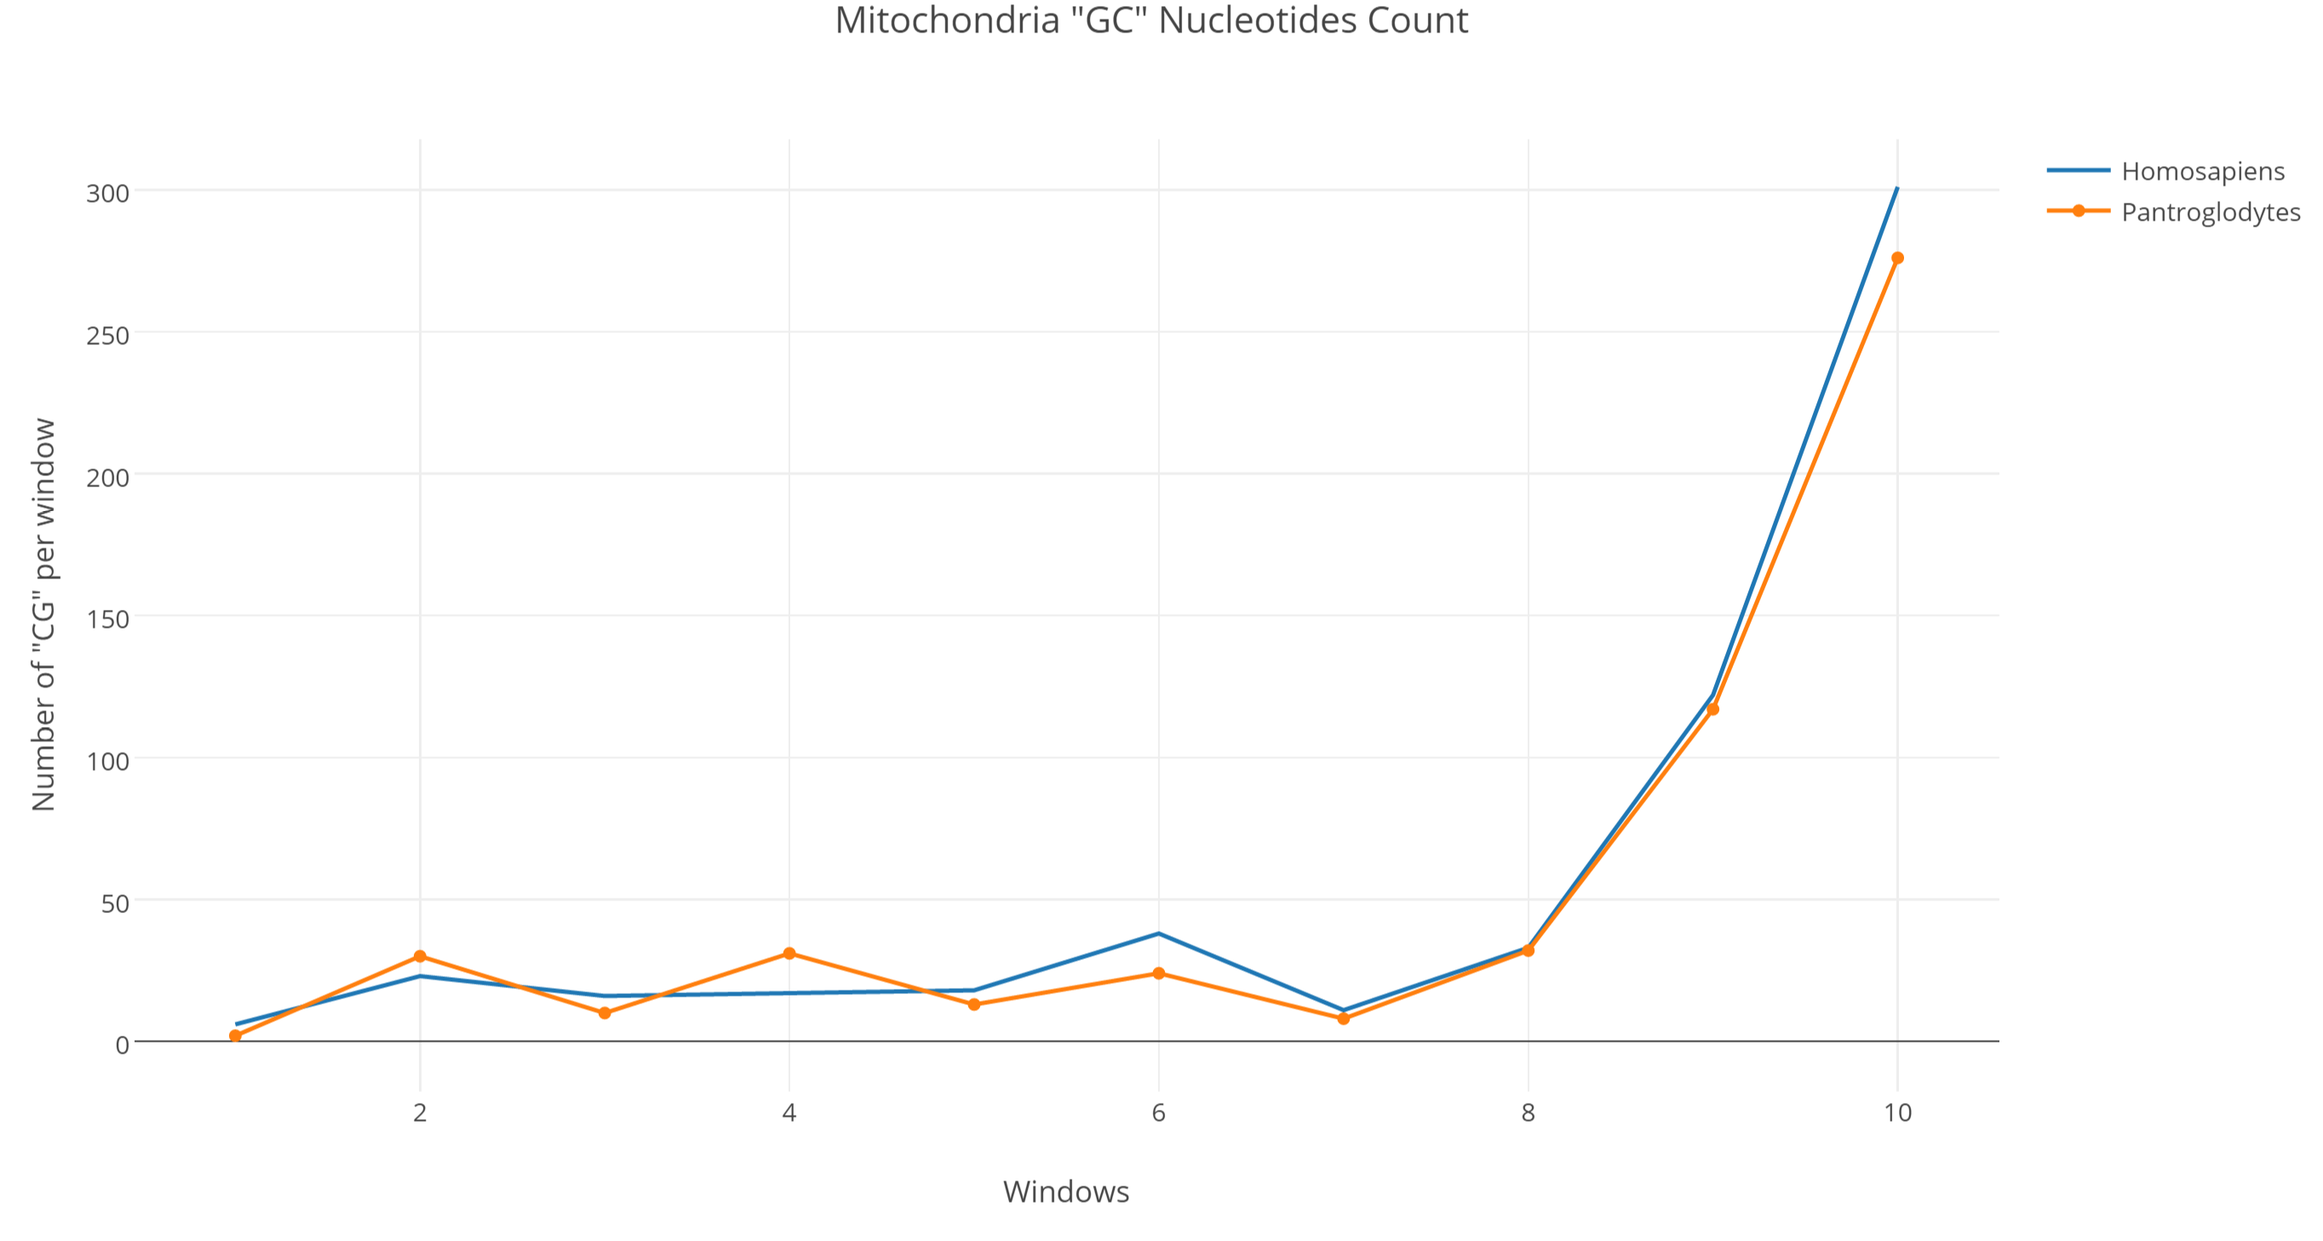
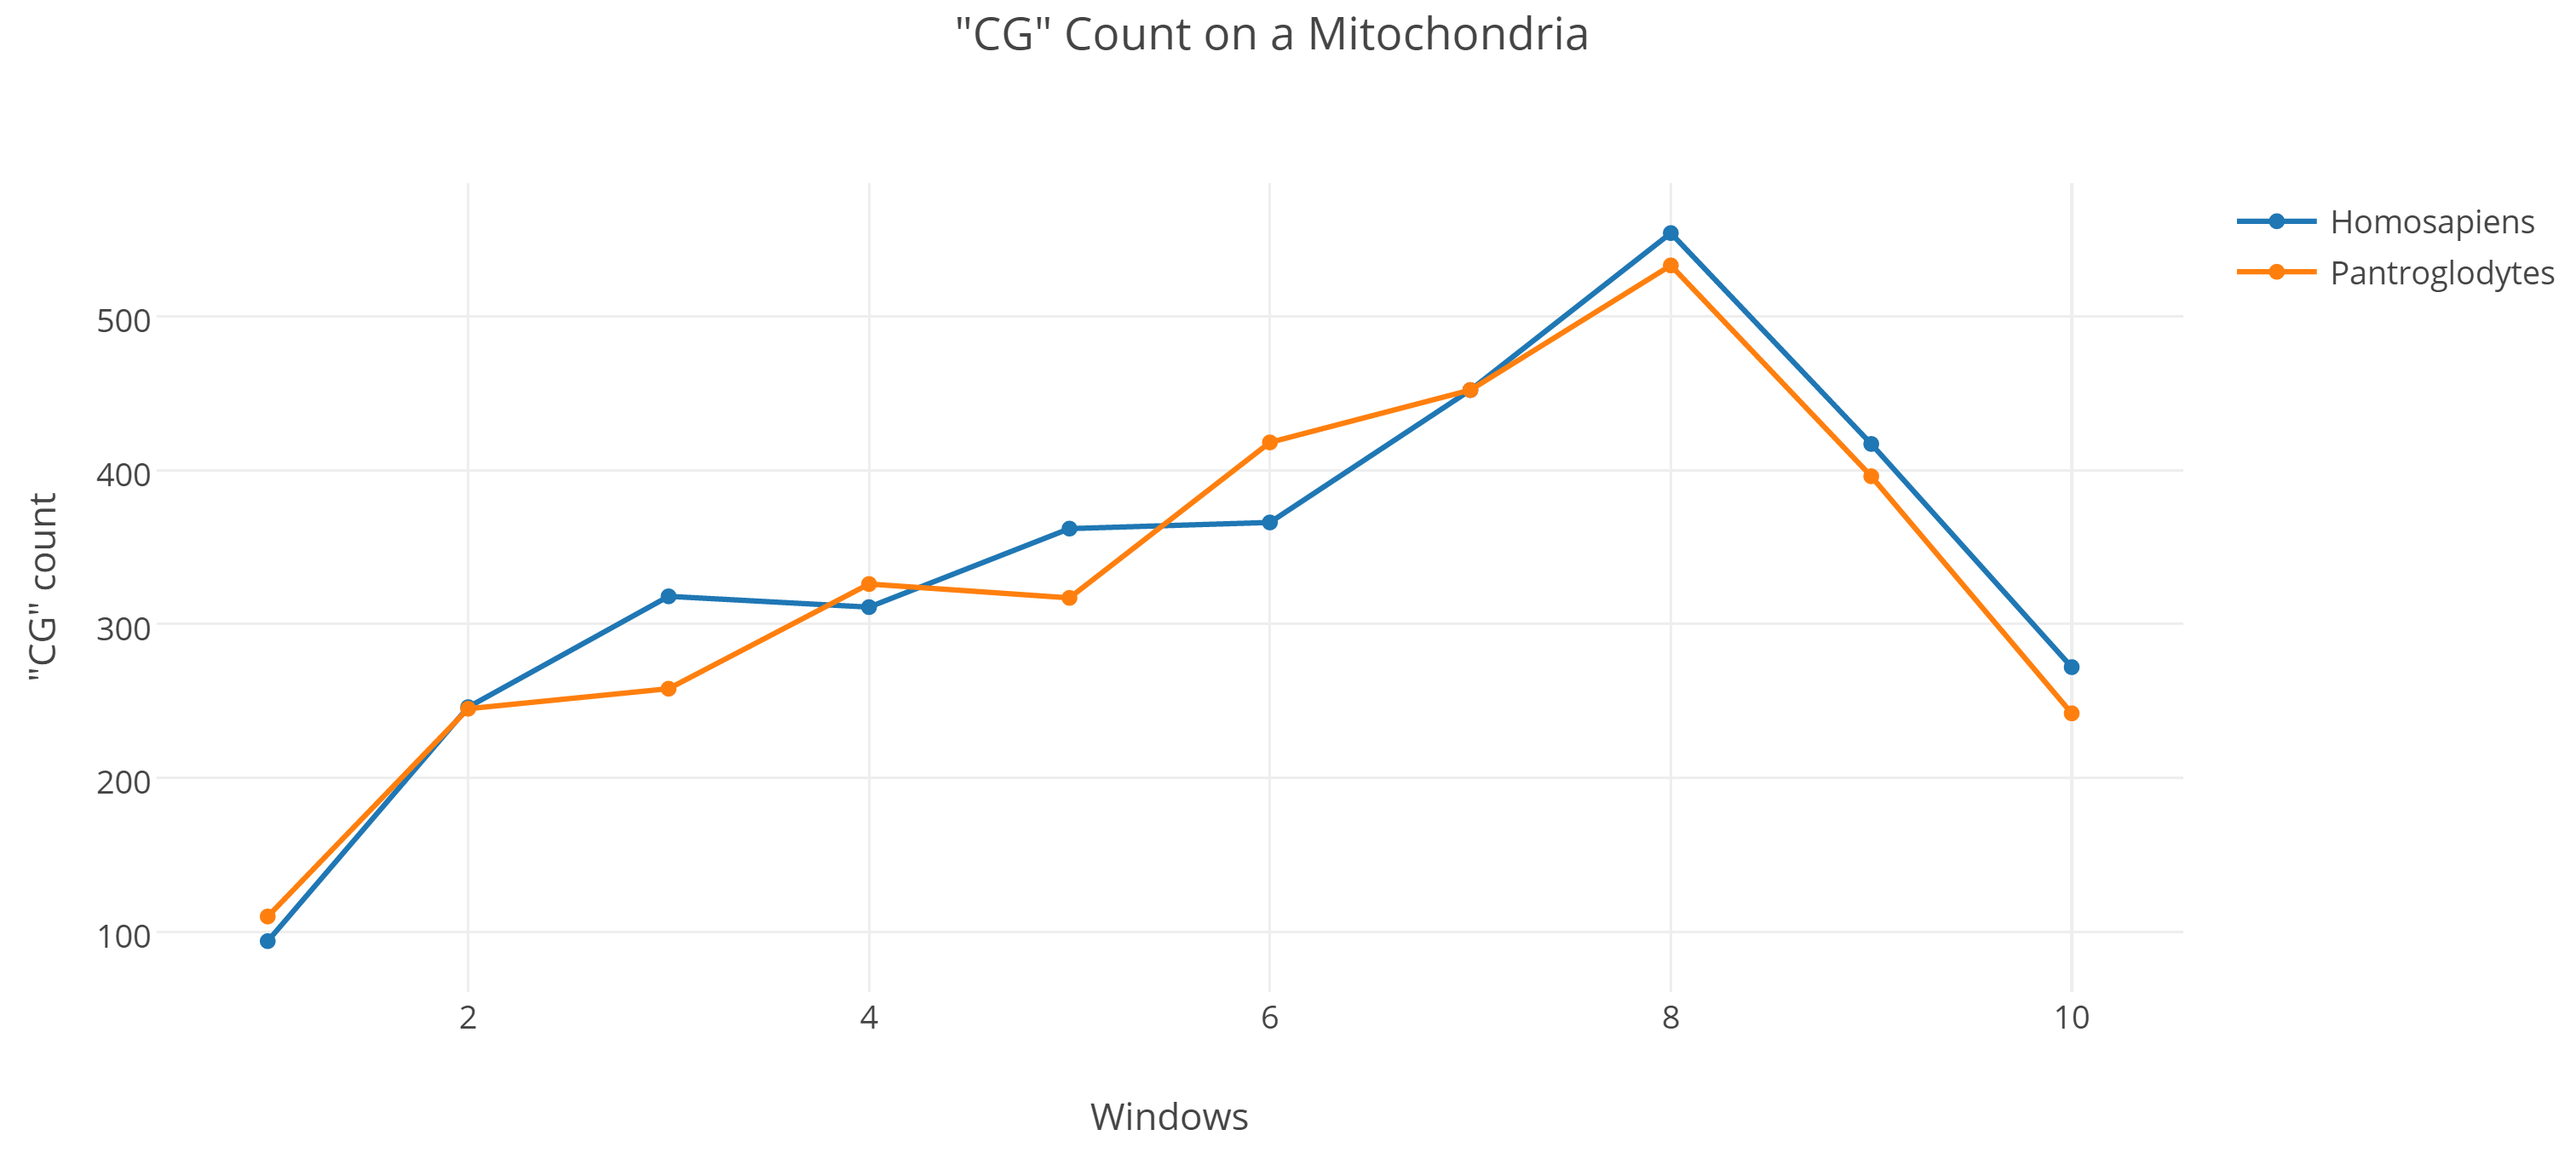
adding pictures and fixing code for mito "CG" count

diff --git a/modulo1/MitocondriaHomemChimpanze/mitocondria.py b/modulo1/MitocondriaHomemChimpanze/mitocondria.py
@@ -11,55 +11,81 @@ apiKey = input("Plotly API Key: ")
 
 tls.set_credentials_file(username, apiKey)
 homo = []
+homoG=[]
 chimp=[]
+chimpG=[]
 
 for seq_record in SeqIO.parse("homoSapiensMito.fasta","fasta"):
     print(seq_record.id)
     print(repr(seq_record.seq))
     print(len(seq_record))
 
-    homo.append(seq_record[1:100].seq.count('CG'))
-    print(homo[0])
-    homo.append(seq_record[100:1000].seq.count('CG'))
-    homo.append(seq_record[1000:1500].seq.count('CG'))
-    homo.append(seq_record[1500:2500].seq.count('CG'))
-    homo.append(seq_record[2500:3000].seq.count('CG'))
-    homo.append(seq_record[3000:4000].seq.count('CG'))
-    homo.append(seq_record[4000:4500].seq.count('CG'))
-    homo.append(seq_record[4500:6000].seq.count('CG'))
-    homo.append(seq_record[6000:10000].seq.count('CG'))
-    homo.append(seq_record[1000:12000].seq.count('CG'))
-    homo.append(seq_record[1200:14000].seq.count('CG'))
-    homo.append(seq_record[1400:15000].seq.count('CG'))
-    homo.append(seq_record[1500:16000].seq.count('CG'))
-    homo.append(seq_record[1600:16500].seq.count('CG'))
-    print(homo[13])
+    homo.append(seq_record[1:100].seq.count('C'))
+
+    homo.append(seq_record[1:500].seq.count('C'))
+    homo.append(seq_record[500:1100].seq.count('C'))
+    homo.append(seq_record[1100:1800].seq.count('C'))
+    homo.append(seq_record[1800:2600].seq.count('C'))
+    homo.append(seq_record[2600:3500].seq.count('C'))
+    homo.append(seq_record[3500:4500].seq.count('C'))
+    homo.append(seq_record[4500:5600].seq.count('C'))
+    homo.append(seq_record[5600:6800].seq.count('C'))
+    homo.append(seq_record[6800:7100].seq.count('C'))
+    homo.append(seq_record[7100:8500].seq.count('C'))
+
+
+    homoG.append(seq_record[1:500].seq.count('G'))
+    homoG.append(seq_record[500:1100].seq.count('G'))
+    homoG.append(seq_record[1100:1800].seq.count('G'))
+    homoG.append(seq_record[1800:2600].seq.count('G'))
+    homoG.append(seq_record[2600:3500].seq.count('G'))
+    homoG.append(seq_record[3500:4500].seq.count('G'))
+    homoG.append(seq_record[4500:5600].seq.count('G'))
+    homoG.append(seq_record[5600:6800].seq.count('G'))
+    homoG.append(seq_record[6800:7100].seq.count('G'))
+    homoG.append(seq_record[7100:8500].seq.count('G'))
+
 
 for seq_record in SeqIO.parse("pantroglodytes.fasta","fasta"):
     print(seq_record.id)
     print(repr(seq_record.seq))
     print(len(seq_record))
 
-    chimp.append(seq_record[1:100].seq.count('CG'))
-    print(chimp[0])
-    chimp.append(seq_record[100:1000].seq.count('CG'))
-    chimp.append(seq_record[1000:1500].seq.count('CG'))
-    chimp.append(seq_record[1500:2500].seq.count('CG'))
-    chimp.append(seq_record[2500:3000].seq.count('CG'))
-    chimp.append(seq_record[3000:4000].seq.count('CG'))
-    chimp.append(seq_record[4000:4500].seq.count('CG'))
-    chimp.append(seq_record[4500:6000].seq.count('CG'))
-    chimp.append(seq_record[6000:10000].seq.count('CG'))
-    chimp.append(seq_record[1000:12000].seq.count('CG'))
-    chimp.append(seq_record[1200:14000].seq.count('CG'))
-    chimp.append(seq_record[1400:15000].seq.count('CG'))
-    chimp.append(seq_record[1500:16000].seq.count('CG'))
-    chimp.append(seq_record[1600:16500].seq.count('CG'))
-    print(chimp[13])
+    chimp.append(seq_record[1:100].seq.count('C'))
+    chimp.append(seq_record[1:500].seq.count('C'))
+    chimp.append(seq_record[500:1100].seq.count('C'))
+    chimp.append(seq_record[1100:1800].seq.count('C'))
+    chimp.append(seq_record[1800:2600].seq.count('C'))
+    chimp.append(seq_record[2600:3500].seq.count('C'))
+    chimp.append(seq_record[3500:4500].seq.count('C'))
+    chimp.append(seq_record[4500:5600].seq.count('C'))
+    chimp.append(seq_record[5600:6800].seq.count('C'))
+    chimp.append(seq_record[6800:7100].seq.count('C'))
+    chimp.append(seq_record[7100:8500].seq.count('C'))
 
 
-trace1=go.Scatter(x=[1,2,3,4,5,6,7,8,9,10], y=[homo[0],homo[1],homo[2],homo[3],homo[4],homo[5],homo[6],homo[7],homo[8],homo[9]])
-trace2=go.Scatter(x=[1,2,3,4,5,6,7,8,9,10], y=[chimp[0],chimp[1],chimp[2],chimp[3],chimp[4],chimp[5],chimp[6],chimp[7],chimp[8],chimp[9]])
+
+    chimpG.append(seq_record[1:500].seq.count('G'))
+    chimpG.append(seq_record[500:1100].seq.count('G'))
+    chimpG.append(seq_record[1100:1800].seq.count('G'))
+    chimpG.append(seq_record[1800:2600].seq.count('G'))
+    chimpG.append(seq_record[2600:3500].seq.count('G'))
+    chimpG.append(seq_record[3500:4700].seq.count('G'))
+    chimpG.append(seq_record[4500:5600].seq.count('G'))
+    chimpG.append(seq_record[5600:6800].seq.count('G'))
+    chimpG.append(seq_record[6800:7100].seq.count('G'))
+    chimpG.append(seq_record[7100:8500].seq.count('G'))
+
+
+homoCG=[]
+chimpCG=[]
+for i in range(0,10):
+    homoCG.append(homo[i]+homoG[i])
+    chimpCG.append(chimp[i]+chimpG[i])
+
+
+trace1=go.Scatter(x=[1,2,3,4,5,6,7,8,9,10], y=[homoCG[0],homoCG[1],homoCG[2],homoCG[3],homoCG[4],homoCG[5],homoCG[6],homoCG[7],homoCG[8],homoCG[9]])
+trace2=go.Scatter(x=[1,2,3,4,5,6,7,8,9,10], y=[chimpCG[0],chimpCG[1],chimpCG[2],chimpCG[3],chimpCG[4],chimpCG[5],chimpCG[6],chimpCG[7],chimpCG[8],chimpCG[9]])
 
 data=[trace1,trace2]
 py.plot(data, filename="genes")
